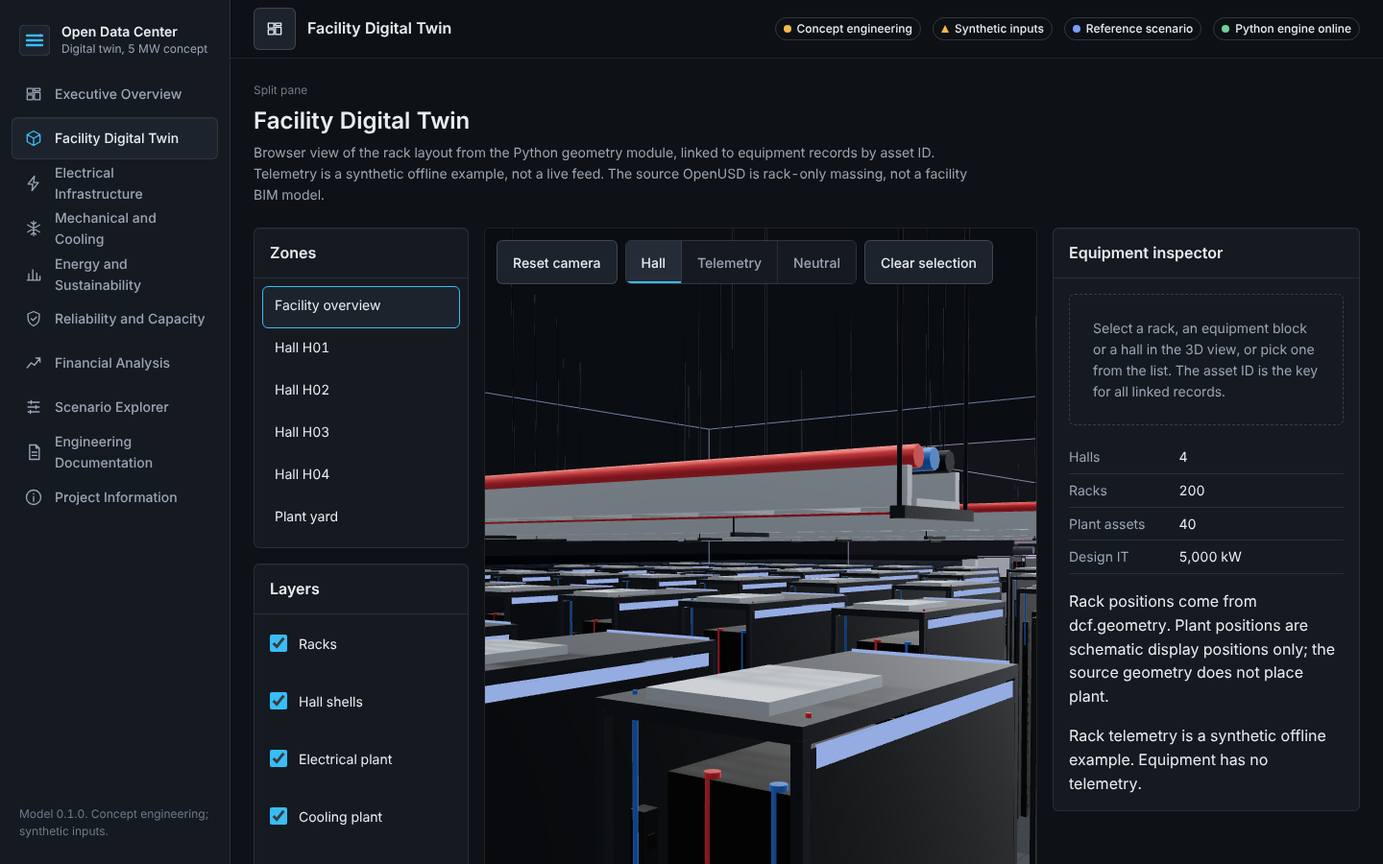
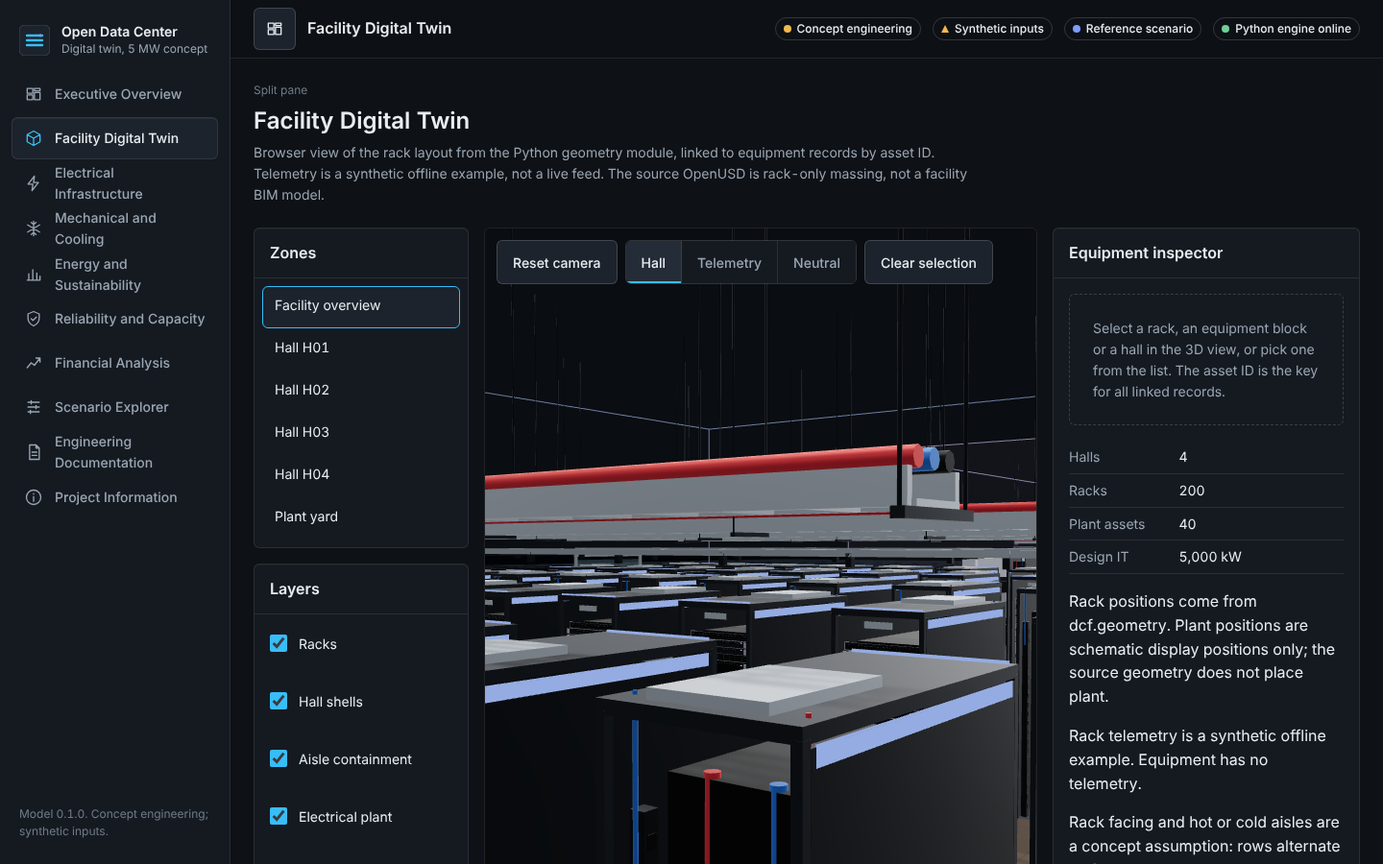
Add hot aisle containment driven by a Python aisle plan
Rows alternate facing so fronts meet at cold aisles and backs at hot
aisles. The plan is a labelled concept assumption in dcf.geometry.aisles,
no rack moves and committed artifacts are unchanged. 3D draws a glazed
roof and end doors over hot aisles and a floor marker for cold aisles.

Claude-Session: https://claude.ai/code/session_01CmSztmL4tLks3xrZEuWPBg

diff --git a/web/src/twin3d.ts b/web/src/twin3d.ts
@@ -1,8 +1,9 @@
 import * as THREE from "three";
 import { OrbitControls } from "three/examples/jsm/controls/OrbitControls.js";
 import { RoomEnvironment } from "three/examples/jsm/environments/RoomEnvironment.js";
-import type { Equipment, Twin } from "./types";
+import type { Equipment, Rack, Twin } from "./types";
 import { buildRack } from "./models/rack";
+import { buildContainment } from "./models/containment";
 import { buildTray } from "./models/tray";
 import { buildPlant } from "./models/plant";
 import { availableModels, loadExternal } from "./models/external";
@@ -12,7 +13,7 @@ interface RackSet { ids: string[]; center: THREE.Vector3; simple: THREE.Instance
 const DETAIL_DISTANCE = 70;
 
 export type ColorMode = "hall" | "telemetry" | "neutral";
-export interface Layers { halls: boolean; racks: boolean; electrical: boolean; cooling: boolean; relations: boolean; labels: boolean }
+export interface Layers { aisles: boolean; halls: boolean; racks: boolean; electrical: boolean; cooling: boolean; relations: boolean; labels: boolean }
 export interface Picked { kind: "rack" | "equipment" | "hall"; id: string }
 
 const SYSTEM_COLOR: Record<string, number> = { UPS: 0x7c9cff, TX: 0xf2b84b, GEN: 0xe8829f, CHL: 0x38bdf8, CDU: 0x6fcf97 };
@@ -34,6 +35,12 @@ function label(text: string): THREE.Sprite {
   return sprite;
 }
 
+// racks face +z in the model; rows that face -y are turned half a revolution
+function placeRack(m: THREE.Matrix4, r: Rack) {
+  if (r.facing === "-y") m.makeRotationY(Math.PI); else m.identity();
+  m.setPosition(r.x + r.width / 2, 0, r.y + r.depth / 2);
+}
+
 export class TwinScene {
   readonly renderer: THREE.WebGLRenderer;
   readonly scene = new THREE.Scene();
@@ -51,6 +58,7 @@ export class TwinScene {
   private labelGroup = new THREE.Group();
   private lines = new THREE.Group();
   private trays = new THREE.Group();
+  private aisleGroup = new THREE.Group();
   private casters: THREE.Object3D[] = [];
   private shadowDirty = true;
   private raycaster = new THREE.Raycaster();
@@ -90,10 +98,11 @@ export class TwinScene {
     const ground = new THREE.Mesh(new THREE.PlaneGeometry(400, 400), new THREE.MeshBasicMaterial({ color: 0x0d1117 }));
     ground.rotation.x = -Math.PI / 2; ground.position.set(this.center.x, -0.02, this.center.z); this.scene.add(ground);
     const grid = new THREE.GridHelper(200, 40, 0x26303b, 0x171d25); grid.position.set(this.center.x, 0, this.center.z); this.scene.add(grid);
-    this.scene.add(this.hallGroup, this.labelGroup, this.lines, this.trays);
+    this.scene.add(this.hallGroup, this.labelGroup, this.lines, this.trays, this.aisleGroup);
     this.buildHalls();
     this.buildRacks();
     this.buildTrays();
+    this.buildAisles();
     this.buildEquipment();
     this.setColorMode("hall");
     this.resize = new ResizeObserver(() => this.fit());
@@ -162,19 +171,38 @@ export class TwinScene {
       const set: RackSet = { ids: racks.map((r) => r.asset_id), center: new THREE.Vector3(hall.x + hall.width / 2, 1, hall.y + hall.depth / 2),
         simple: mk(geo.simple, simpleMat), body: mk(geo.body, bodyMat), accent: mk(geo.accent, accentMat) };
       racks.forEach((r, i) => {
-        m.makeTranslation(r.x + r.width / 2, 0, r.y + r.depth / 2);
+        placeRack(m, r);
         set.simple.setMatrixAt(i, m); set.body.setMatrixAt(i, m); set.accent.setMatrixAt(i, m);
         this.rackLoc.set(r.asset_id, { set, idx: i });
       });
       // invisible low poly caster keeps shadows stable while the detail level changes
       const caster = new THREE.InstancedMesh(geo.simple, new THREE.MeshBasicMaterial({ colorWrite: false, depthWrite: false }), n);
-      racks.forEach((r, i) => { m.makeTranslation(r.x + r.width / 2, 0, r.y + r.depth / 2); caster.setMatrixAt(i, m); });
+      racks.forEach((r, i) => { placeRack(m, r); caster.setMatrixAt(i, m); });
       caster.castShadow = true; caster.raycast = () => {}; this.casters.push(caster); this.scene.add(caster);
       set.body.receiveShadow = true; set.simple.receiveShadow = true;
       for (const im of [set.simple, set.body, set.accent]) { im.computeBoundingSphere(); im.frustumCulled = true; }
       set.body.visible = false; set.accent.visible = false;
       this.scene.add(set.simple, set.body, set.accent);
       this.rackSets.push(set);
+    }
+  }
+
+  // hot aisles get a glazed roof and end doors, cold aisles a blue floor marker; both come from the Python aisle plan
+  private buildAisles() {
+    const frameMat = new THREE.MeshStandardMaterial({ vertexColors: true, roughness: 0.4, metalness: 0.7 });
+    const glassMat = new THREE.MeshStandardMaterial({ vertexColors: true, transparent: true, opacity: 0.28, roughness: 0.1, metalness: 0.2, depthWrite: false });
+    const cold = new THREE.MeshBasicMaterial({ color: 0x38bdf8, transparent: true, opacity: 0.16, depthWrite: false, polygonOffset: true, polygonOffsetFactor: -2 });
+    const hot = new THREE.MeshBasicMaterial({ color: 0xf97316, transparent: true, opacity: 0.16, depthWrite: false, polygonOffset: true, polygonOffsetFactor: -2 });
+    const none = () => {};
+    for (const hall of this.twin.halls) for (const a of hall.aisles ?? []) {
+      const cx = a.x + a.width / 2, cz = a.y + a.depth / 2;
+      const tint = new THREE.Mesh(new THREE.PlaneGeometry(a.width, a.depth), a.kind === "hot" ? hot : cold);
+      tint.rotation.x = -Math.PI / 2; tint.position.set(cx, 0.21, cz); tint.raycast = none; this.aisleGroup.add(tint);
+      if (!a.contained) continue;
+      const { frame, glass } = buildContainment(a.width, a.depth, 2.2);
+      const fm = new THREE.Mesh(frame, frameMat), gm = new THREE.Mesh(glass, glassMat);
+      for (const o of [fm, gm]) { o.position.set(cx, 0.2, cz); o.raycast = none; this.aisleGroup.add(o); }
+      fm.castShadow = true; gm.renderOrder = 2;
     }
   }
 
@@ -243,7 +271,7 @@ export class TwinScene {
 
   setLayers(l: Layers) {
     this.hallGroup.visible = l.halls;
-    this.racksVisible = l.racks; this.trays.visible = l.racks; for (const c of this.casters) c.visible = l.racks; this.shadowDirty = true;
+    this.aisleGroup.visible = l.aisles; this.racksVisible = l.racks; this.trays.visible = l.racks; for (const c of this.casters) c.visible = l.racks; this.shadowDirty = true;
     this.updateLod();
     this.labelGroup.visible = l.labels;
     this.lines.visible = l.relations;
@@ -352,7 +380,7 @@ export class TwinScene {
     let off: THREE.Vector3;
     if (p.kind === "rack") {
       const r = this.twin.racks.find((x) => x.asset_id === p.id)!;
-      c.set(r.x + r.width / 2, 1.2, r.y + r.depth / 2); off = new THREE.Vector3(0.35, 0.15, 1.65);       // inside the 1.8 m cold aisle, facing the front
+      c.set(r.x + r.width / 2, 1.2, r.y + r.depth / 2); off = new THREE.Vector3(0.35, 0.15, r.facing === "-y" ? -1.65 : 1.65);       // inside the 1.8 m cold aisle, facing the front
     } else if (p.kind === "hall") {
       const h = this.twin.halls.find((x) => x.id === p.id)!;
       c.set(h.x + h.width / 2, 2, h.y + h.depth / 2); off = new THREE.Vector3(18, 26, 32);

diff --git a/web/src/modules/twin.ts b/web/src/modules/twin.ts
@@ -14,7 +14,7 @@ function row(dl: HTMLElement, term: string, value: Node | string | null, missing
 export function twinModule(ctx: Ctx): ModuleView {
   const data = activeData(ctx.store);
   const twin = data.twin;
-  const layers: Layers = { halls: true, racks: true, electrical: true, cooling: true, relations: true, labels: true };
+  const layers: Layers = { aisles: true, halls: true, racks: true, electrical: true, cooling: true, relations: true, labels: true };
   let mode: ColorMode = "hall";
   let zone = "overview";
   const canvas = h("canvas", { "aria-label": "Interactive 3D model of the data center halls, racks and plant. Use the asset list or search for keyboard access.", tabindex: "0" }) as HTMLCanvasElement;
@@ -123,7 +123,7 @@ export function twinModule(ctx: Ctx): ModuleView {
       h("div", { class: "side left" },
         h("section", { class: "panel" }, h("header", { class: "panel-head" }, h("h2", {}, "Zones")), h("div", { class: "panel-body", style: "padding:8px" }, zones)),
         h("section", { class: "panel" }, h("header", { class: "panel-head" }, h("h2", {}, "Layers")), h("div", { class: "panel-body", style: "padding:8px" },
-          layerBox("racks", "Racks"), layerBox("halls", "Hall shells"), layerBox("electrical", "Electrical plant"), layerBox("cooling", "Cooling plant"), layerBox("relations", "Relationship lines"), layerBox("labels", "Labels"), colorLegend)),
+          layerBox("racks", "Racks"), layerBox("halls", "Hall shells"), layerBox("aisles", "Aisle containment"), layerBox("electrical", "Electrical plant"), layerBox("cooling", "Cooling plant"), layerBox("relations", "Relationship lines"), layerBox("labels", "Labels"), colorLegend)),
         h("section", { class: "panel" }, h("header", { class: "panel-head" }, h("h2", {}, "Find asset")), h("div", { class: "panel-body" }, search, datalist,
           h("div", { class: "tags" }, ...["UPS-A-01", "GEN-B-01", "CHL-SHARED-01", "CDU-H01-01"].map((id) => h("button", { class: "tag", type: "button", onClick: () => pick({ kind: "equipment", id }, true) }, id)))))),
       stage,

diff --git a/web/src/models/containment.ts b/web/src/models/containment.ts
@@ -1,0 +1,31 @@
+import type * as THREE from "three";
+import { Kit, PAINT } from "./kit";
+
+export const CONTAINMENT = { bay: 1.2, frame: 0.05, glassT: 0.012 };
+
+// generic hot aisle containment: roof frame with glass panels and a glazed door at each end.
+// local origin is the aisle centre on the floor; length runs along x, width along z.
+export function buildContainment(length: number, width: number, roofY: number): { frame: THREE.BufferGeometry; glass: THREE.BufferGeometry } {
+  const f = new Kit(), g = new Kit();
+  const t = CONTAINMENT.frame, bays = Math.max(1, Math.round(length / CONTAINMENT.bay)), bay = length / bays;
+  const top = roofY + 0.1;
+  // roof: two long rails, a cross bar per bay, a glass panel per bay
+  for (const s of [-1, 1]) f.box(0, top, s * (width / 2 - t / 2), length, t, t, PAINT.alu);
+  for (let i = 0; i <= bays; i++) f.box(-length / 2 + i * bay, top, 0, t, t, width, PAINT.alu);
+  for (let i = 0; i < bays; i++) g.box(-length / 2 + (i + 0.5) * bay, top, 0, bay - t, CONTAINMENT.glassT, width - t, 0x9fd3ea);
+  // roof sits on the racks through short posts at each cross bar
+  for (let i = 0; i <= bays; i++) for (const s of [-1, 1]) f.box(-length / 2 + i * bay, (roofY + top) / 2, s * (width / 2 - t / 2), t, top - roofY, t, PAINT.steel);
+  // end doors: frame, glass leaf, handle, hinge
+  const doorH = roofY - 0.05, leafW = width - 2 * t;
+  for (const e of [-1, 1]) {
+    const x = e * (length / 2 + t / 2);
+    for (const s of [-1, 1]) f.box(x, doorH / 2, s * (width / 2 - t / 2), t, doorH, t, PAINT.alu);
+    f.box(x, doorH + t / 2, 0, t, t, width, PAINT.alu);
+    f.box(x, 0.05, 0, t, 0.1, width, PAINT.alu);
+    g.box(x, doorH / 2, 0, CONTAINMENT.glassT, doorH - 0.12, leafW - 0.02, 0xa9d8ee);
+    f.box(x + e * 0.03, doorH * 0.45, leafW / 2 - 0.12, 0.03, 0.18, 0.02, PAINT.steel);
+    f.cyl(x, doorH * 0.2, -leafW / 2 + 0.02, 0.012, 0.12, "y", PAINT.steel, 6);
+    f.cyl(x, doorH * 0.8, -leafW / 2 + 0.02, 0.012, 0.12, "y", PAINT.steel, 6);
+  }
+  return { frame: f.build(), glass: g.build() };
+}

diff --git a/web/tests/models.test.ts b/web/tests/models.test.ts
@@ -3,6 +3,7 @@ import { describe, expect, it } from "vitest";
 import { buildRack, RACK_SIZE, RACK_UNITS } from "../src/models/rack";
 import { buildPlant } from "../src/models/plant";
 import { buildTray } from "../src/models/tray";
+import { buildContainment } from "../src/models/containment";
 
 const tris = (g: BufferGeometry) => g.getAttribute("position").count / 3;
 
@@ -55,4 +56,21 @@ describe("generic cable tray", () => {
     expect(tris(tray)).toBeLessThan(12_000);
     expect(tray.hasAttribute("color")).toBe(true);
   });
+});
+
+describe("generic hot aisle containment", () => {
+  const c = buildContainment(12, 1.8, 2.2);
+  it("covers the aisle plus end doors and stays at rack height", () => {
+    const b = c.frame.boundingBox!;
+    expect(b.max.x - b.min.x).toBeGreaterThan(12);
+    expect(b.max.x - b.min.x).toBeLessThan(12.3);
+    expect(b.max.z - b.min.z).toBeLessThan(1.85);
+    expect(b.max.y).toBeGreaterThan(2.2);
+    expect(b.max.y).toBeLessThan(2.4);
+  });
+  it("glass is a separate geometry so it can be transparent", () => {
+    expect(tris(c.glass)).toBeGreaterThan(0);
+    expect(c.glass.hasAttribute("color")).toBe(true);
+  });
+  it("is light", () => expect(tris(c.frame) + tris(c.glass)).toBeLessThan(5_000));
 });

diff --git a/web/src/types.ts b/web/src/types.ts
@@ -17,10 +17,11 @@ export interface Hourly {
   columns: Record<string, number[]>;
 }
 
+export interface Aisle { id: string; hall_id: string; kind: "cold" | "hot"; x: number; y: number; width: number; depth: number; contained: boolean; basis: string }
 export interface Hall { id: string; x: number; y: number; width: number; depth: number; height: number;
-  rack_count: number; design_kw: number; cdu_ids: string[] }
+  rack_count: number; design_kw: number; cdu_ids: string[]; aisles: Aisle[] }
 export interface Telemetry { timestamp: string; asset_id: string; metric: string; value: number; unit: string; quality: string; source: string }
-export interface Rack { asset_id: string; hall_id: string; x: number; y: number; width: number; depth: number; height: number;
+export interface Rack { facing: "+y" | "-y"; asset_id: string; hall_id: string; x: number; y: number; width: number; depth: number; height: number;
   design_kw: number; power_a: string; power_b: string; liquid_design_kw: number; air_design_kw: number;
   relations: { path_a_equipment: string[]; path_b_equipment: string[]; cdu_ids: string[]; chiller_ids: string[]; note: string };
   telemetry: Telemetry[] }

diff --git a/dcf/webdata.py b/dcf/webdata.py
@@ -15,7 +15,7 @@ from .controls import commission
 from .energy import annual, hourly
 from .engineering import size
 from .finance import model, sensitivity
-from .geometry import layout
+from .geometry import aisles, layout
 from .reliability import evaluate
 from .site import rank
 
@@ -150,19 +150,21 @@ def build_twin(c: dict, sizing: dict, rack_rows: list[dict], equipment: list[dic
         by_system.setdefault((item["system"], item["path"]), []).append(item["asset_id"])
     path_ids = {p: sum((by_system.get((k, p), []) for k in ("UPS", "TX", "GEN")), []) for p in ("A", "B")}
     chillers = by_system.get(("CHL", "SHARED"), [])
+    facing, aisle_list = aisles(c)
     halls = []
     for room in rooms:
         count = sum(1 for r in rack_rows if r["hall_id"] == room["id"])
         halls.append({**room, "rack_count": count, "design_kw": sum(r["design_kw"] for r in rack_rows
                                                                      if r["hall_id"] == room["id"]),
-                      "cdu_ids": by_system.get(("CDU", room["id"]), [])})
+                      "cdu_ids": by_system.get(("CDU", room["id"]), []),
+                      "aisles": [a for a in aisle_list if a["hall_id"] == room["id"]]})
     lookup = {}
     for record in telemetry:
         lookup.setdefault(record["asset_id"], []).append(record)
     racks = []
     for rack in rack_rows:
         liquid = rack["design_kw"] * c["liquid_fraction"]
-        racks.append({**rack, "liquid_design_kw": liquid, "air_design_kw": rack["design_kw"] - liquid,
+        racks.append({**rack, "facing": facing[rack["asset_id"]], "liquid_design_kw": liquid, "air_design_kw": rack["design_kw"] - liquid,
                       "relations": {"path_a_equipment": path_ids["A"], "path_b_equipment": path_ids["B"],
                                     "cdu_ids": by_system.get(("CDU", rack["hall_id"]), []),
                                     "chiller_ids": chillers,
@@ -177,7 +179,9 @@ def build_twin(c: dict, sizing: dict, rack_rows: list[dict], equipment: list[dic
     return {"halls": halls, "racks": racks, "equipment": items,
             "notes": ["Rack positions come from dcf.geometry. Plant positions are schematic display "
                       "positions only; the source geometry does not place plant.",
-                      "Rack telemetry is a synthetic offline example. Equipment has no telemetry."]}
+                      "Rack telemetry is a synthetic offline example. Equipment has no telemetry.",
+                      "Rack facing and hot or cold aisles are a concept assumption: rows alternate so fronts meet at "
+                      "cold aisles and backs at hot aisles. Rack positions are unchanged."]}
 
 
 # ---------- derived values and tables ----------

diff --git a/tests/test_webdata.py b/tests/test_webdata.py
@@ -73,6 +73,31 @@ class WebData(unittest.TestCase):
             self.assertEqual(item["display_position"]["placement"], "schematic")
             self.assertTrue(set(item["serves_halls"]) <= halls)
 
+    def test_aisles_follow_rack_facing(self):
+        twin = self.live["twin"]
+        by_id = {r["asset_id"]: r for r in twin["racks"]}
+        for hall in twin["halls"]:
+            self.assertTrue(hall["aisles"])
+            for aisle in hall["aisles"]:
+                top = [r for r in twin["racks"] if r["hall_id"] == hall["id"]
+                       and abs(r["y"] + r["depth"] - aisle["y"]) < 1e-9]
+                bottom = [r for r in twin["racks"] if r["hall_id"] == hall["id"]
+                          and abs(r["y"] - (aisle["y"] + aisle["depth"])) < 1e-9]
+                self.assertTrue(top and bottom)
+                want = ("+y", "-y") if aisle["kind"] == "cold" else ("-y", "+y")
+                self.assertEqual({r["facing"] for r in top}, {want[0]})
+                self.assertEqual({r["facing"] for r in bottom}, {want[1]})
+                self.assertEqual(aisle["contained"], aisle["kind"] == "hot")
+                self.assertAlmostEqual(aisle["depth"], 1.8)
+        self.assertEqual(len(by_id), 200)
+
+    def test_aisle_plan_does_not_move_racks(self):
+        from dcf.geometry import layout
+        _, racks = layout(self.c)
+        for rack in self.live["twin"]["racks"]:
+            src = next(r for r in racks if r["asset_id"] == rack["asset_id"])
+            self.assertEqual((rack["x"], rack["y"]), (src["x"], src["y"]))
+
     def test_telemetry_is_marked_synthetic(self):
         racks = self.ref["twin"]["racks"]
         with_data = [r for r in racks if r["telemetry"]]

diff --git a/dcf/geometry.py b/dcf/geometry.py
@@ -23,6 +23,32 @@ def layout(c: dict) -> tuple[list[dict], list[dict]]:
                           "design_kw": c["rack_kw"], "power_a": "LV-A", "power_b": "LV-B"})
     return rooms, racks
 
+def aisles(c: dict) -> tuple[dict, list[dict]]:
+    """Concept aisle plan: rows alternate facing so fronts meet at cold aisles and backs at hot aisles.
+
+    This is a layout assumption added for the digital twin. It does not move any rack, so the
+    committed DXF, SVG and USD files stay valid. Returns facing by asset id and the aisle rectangles.
+    """
+    cols = min(10, c["racks_per_hall"])
+    rows = math.ceil(c["racks_per_hall"]/cols)
+    rooms, racks = layout(c)
+    facing = {}
+    for rack in racks:
+        row = int(rack["asset_id"].rsplit("R", 1)[1]) - 1
+        facing[rack["asset_id"]] = "+y" if (row//cols) % 2 == 0 else "-y"
+    out = []
+    for room in rooms:
+        for r in range(rows-1):
+            n = min(cols, c["racks_per_hall"]-r*cols, c["racks_per_hall"]-(r+1)*cols)
+            if n <= 0:
+                continue
+            kind = "cold" if r % 2 == 0 else "hot"
+            out.append({"id": f"{room['id']}-{kind[0].upper()}{r+1}", "hall_id": room["id"], "kind": kind,
+                        "x": room["x"]+4, "y": room["y"]+4+r*3+1.2, "width": n*1.2, "depth": 1.8,
+                        "contained": kind == "hot", "basis": "concept assumption"})
+    return facing, out
+
+
 def write_geometry(c: dict, out: Path) -> list[dict]:
     rooms, racks = layout(c)
     max_x = max(r["x"]+r["width"] for r in rooms)+10

diff --git a/README.md b/README.md
@@ -84,7 +84,7 @@ Details and the contract: [docs/architecture/data-flow.md](docs/architecture/dat
 
 ### 7a. 3D models
 
-The 3D view uses original procedural models, not scans and not vendor files. A rack is a 42U, 600 by 1200 mm class cabinet with 19 inch rails, 2U and 4U servers with drive bays and vents, switches, patch panel, A and B PDUs with outlets, and a supply and return liquid manifold. Each rack is about 4,400 triangles; 200 racks at full detail is about 0.9 million triangles, and halls farther than 70 m show a box stand-in. Plant: UPS cabinet, oil filled transformer with bushings and radiator fins, enclosed generator with silencer and radiator, air cooled chiller with V coils and fans, and a CDU with manifolds. A generic overhead ladder cable tray (power A, power B, data bundles, hangers) runs above each rack row. The sun casts soft shadows from racks, trays and plant. All carry the label "generic". Dimensions follow the display footprint in the data contract.
+The 3D view uses original procedural models, not scans and not vendor files. A rack is a 42U, 600 by 1200 mm class cabinet with 19 inch rails, 2U and 4U servers with drive bays and vents, switches, patch panel, A and B PDUs with outlets, and a supply and return liquid manifold. Each rack is about 4,400 triangles; 200 racks at full detail is about 0.9 million triangles, and halls farther than 70 m show a box stand-in. Plant: UPS cabinet, oil filled transformer with bushings and radiator fins, enclosed generator with silencer and radiator, air cooled chiller with V coils and fans, and a CDU with manifolds. A generic overhead ladder cable tray (power A, power B, data bundles, hangers) runs above each rack row. Hot aisles have a generic glazed containment roof and end doors; cold aisles carry a blue floor marker. Rack facing and the aisle plan come from the Python model (`dcf.geometry.aisles`) as a labelled concept assumption, and no rack moves. The sun casts soft shadows from racks, trays and plant. All carry the label "generic". Dimensions follow the display footprint in the data contract.
 
 NVIDIA SimReady and DSX assets are **not included**. The DSX sample data is licensed for evaluation only and is not for production use, so it must not be committed to this MIT repository. To use your own GLB files, put `rack.glb`, `ups.glb`, `tx.glb`, `gen.glb`, `chl.glb` or `cdu.glb` in `web/public/models/` (git ignored). They replace the generic models when the server finds them. Only geometry and base colours are used; convert OpenUSD to GLB yourself and check each asset licence.
 
@@ -96,10 +96,10 @@ Four classes: design, modeled, simulated, financial. Every value carries a synth
 
 | Check | Result |
 | --- | --- |
-| Python unit tests | 45 passed |
+| Python unit tests | 47 passed |
 | `scripts/verify_repository.py` | PASS |
 | TypeScript strict, ESLint | 0 errors |
-| Frontend tests | 35 passed |
+| Frontend tests | 38 passed |
 | Production build | exit 0 |
 | Browser sweep, 10 routes, no console errors | passed |
 | Horizontal overflow, 7 widths by 10 routes | 0 |

diff --git a/docs/digital-twin/maturity-and-limits.md b/docs/digital-twin/maturity-and-limits.md
@@ -35,7 +35,7 @@ Each record shows metric, value, unit, timestamp, source, quality and a syntheti
 | Rack | 42U class, 4,424 triangles, 200 racks about 0.9 million triangles at full detail; box stand-in beyond 70 m |
 | Plant | UPS about 1.0 k triangles, transformer 4.2 k, generator 1.5 k, chiller 4.6 k, CDU 0.9 k |
 | Cable tray | Generic ladder tray, 0.3 m wide, one per rack row at 2.75 m. Schematic: the source data has no cable routing. |
-| Aisle containment | Not drawn. The source geometry has every rack facing the same way, so it defines no hot or cold aisles. Containment needs that to be added to the Python model first. |
+| Aisle containment | Generic glazed roof and end doors over hot aisles. Facing and aisles are a concept assumption added in `dcf.geometry.aisles`: rows alternate so fronts meet at cold aisles and backs at hot aisles. No rack moves, committed DXF, SVG and USD are unchanged, and no airflow or thermal result is modelled. |
 | Placement | Racks from `dcf.geometry`. Plant is schematic. |
 | NVIDIA assets | Not used. DSX sample data is licensed for evaluation only. SimReady Central assets are hosted by each OEM under its own licence. |
 | Your own assets | Optional GLB override in `web/public/models/`, never committed. |

diff --git a/docs/validation/final-acceptance-report.md b/docs/validation/final-acceptance-report.md
@@ -4,11 +4,11 @@ Evidence recorded on the build machine (Linux, CPython 3.x, Node 22.23.5, Chrome
 
 | Criterion | Evidence | Result |
 | --- | --- | --- |
-| Python tests | `python -m unittest discover -s tests` | 45 tests OK |
+| Python tests | `python -m unittest discover -s tests` | 47 tests OK |
 | Repository verification | `python scripts/verify_repository.py` | PASS (hashes, schema, costs, asset IDs, six offline cases, local links) |
 | Typecheck | `npm run typecheck` (tsc strict) | 0 errors |
 | Lint | `npm run lint` | 0 errors |
-| Frontend tests | `npx vitest run` | 35 passed (includes rack, plant and cable tray geometry checks) |
+| Frontend tests | `npx vitest run` | 38 passed (includes rack, plant, cable tray and containment geometry checks) |
 | Build | `npm run build` | exit 0 |
 | Ten modules render | Headless Chrome visits every route | No page errors, no console errors |
 | 3D models fit their footprints | `web/tests/models.test.ts` | Pass |

diff --git a/docs/architecture/data-flow.md b/docs/architecture/data-flow.md
@@ -24,7 +24,7 @@ configs/tropical-5mw.json ──► dcf (Python model) ──► artifacts/refer
 | --- | --- |
 | `core.json` | 17 KPIs with `provenance`, `synthetic`, `sources`; config; sizing; energy; finance; sensitivity; reliability; commissioning; `derived` |
 | `hourly.json` | 16 hourly columns plus month, rounded to 4 decimals |
-| `twin.json` | halls, racks, equipment, plant display positions, relations, telemetry, notes |
+| `twin.json` | halls (with aisle plan), racks (with facing), equipment, plant display positions, relations, telemetry, notes |
 | `docs.json` | documentation index by discipline |
 | `tables.json` | FMEA, maintenance matrix, cost allowances, traceability, accommodation, control points |
 | `manifest.json` | SHA-256 of each file above |
